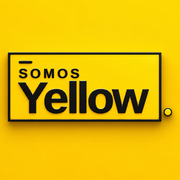
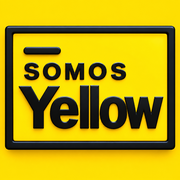
Icono de la app: nuevo logotipo Somos Yellow a sangre
Sustituye el icono, el favicon y el logo de la cabecera por la versión cuadrada, que ocupa
todo el icono y se lee mejor en tamaño pequeño. Service worker v18.

Claude-Session: https://claude.ai/code/session_014bE1bAw6156sv1W7yaK5pr

diff --git a/site/index.html b/site/index.html
@@ -8,16 +8,16 @@
   <meta name="apple-mobile-web-app-title" content="Yellow Control">
   <title>Yellow Control</title>
   <link rel="manifest" href="/manifest.webmanifest">
-  <link rel="apple-touch-icon" href="/yellow-app-icon-180.png?v=2">
-  <link rel="icon" type="image/png" sizes="32x32" href="/favicon-32.png?v=2">
-  <link rel="icon" type="image/png" sizes="180x180" href="/yellow-app-icon-180.png?v=2">
+  <link rel="apple-touch-icon" href="/yellow-app-icon-180.png?v=3">
+  <link rel="icon" type="image/png" sizes="32x32" href="/favicon-32.png?v=3">
+  <link rel="icon" type="image/png" sizes="180x180" href="/yellow-app-icon-180.png?v=3">
   <script>try{var t=localStorage.getItem("yc-theme");if(t==="light"||t==="dark")document.documentElement.dataset.theme=t}catch(e){}</script>
   <link rel="stylesheet" href="/control.css">
 </head>
 <body>
   <div id="loginGate" class="gate hidden">
     <div class="login-card">
-      <div class="brand-lockup"><img src="/yellow-app-icon-180.png?v=2" alt="Somos Yellow"><div><strong>YELLOW CONTROL</strong><span>Yellow Media</span></div></div>
+      <div class="brand-lockup"><img src="/yellow-app-icon-180.png?v=3" alt="Somos Yellow"><div><strong>YELLOW CONTROL</strong><span>Yellow Media</span></div></div>
       <h1>Acceso interno</h1>
       <p id="loginInfo" class="muted">Inicia sesión con tu usuario de Yellow Media.</p>
       <form id="loginForm" class="stack">
@@ -37,7 +37,7 @@
   </div>
 
   <header class="topbar">
-    <a class="brand-lockup" href="#dashboard"><img src="/yellow-app-icon-180.png?v=2" alt="Somos Yellow"><div><strong>YELLOW CONTROL</strong><span>Yellow Media</span></div></a>
+    <a class="brand-lockup" href="#dashboard"><img src="/yellow-app-icon-180.png?v=3" alt="Somos Yellow"><div><strong>YELLOW CONTROL</strong><span>Yellow Media</span></div></a>
     <div class="top-actions"><button type="button" id="themeToggle" class="ghost theme-toggle" aria-label="Cambiar a modo claro" title="Modo claro / oscuro"><svg class="ic-sun" viewBox="0 0 24 24" fill="none" stroke="currentColor" stroke-width="1.8" stroke-linecap="round"><circle cx="12" cy="12" r="4"/><path d="M12 2v2M12 20v2M4.9 4.9l1.4 1.4M17.7 17.7l1.4 1.4M2 12h2M20 12h2M4.9 19.1l1.4-1.4M17.7 6.3l1.4-1.4"/></svg><svg class="ic-moon" viewBox="0 0 24 24" fill="none" stroke="currentColor" stroke-width="1.8" stroke-linecap="round" stroke-linejoin="round"><path d="M21 12.8A9 9 0 1 1 11.2 3a7 7 0 0 0 9.8 9.8z"/></svg></button>
     <div class="account"><span id="accountName">—</span><button id="logoutBtn" class="ghost">Salir</button></div></div>
   </header>

diff --git a/site/sw.js b/site/sw.js
@@ -1,1 +1,1 @@
-const CACHE="yellow-control-v17";const STATIC=["/","/control.css","/app.js","/manifest.webmanifest","/yellow-app-icon-180.png?v=2"];self.addEventListener("install",e=>{self.skipWaiting();e.waitUntil(caches.open(CACHE).then(c=>c.addAll(STATIC)))});self.addEventListener("activate",e=>e.waitUntil(caches.keys().then(keys=>Promise.all(keys.filter(k=>k!==CACHE).map(k=>caches.delete(k)))).then(()=>self.clients.claim())));self.addEventListener("fetch",e=>{const u=new URL(e.request.url);if(u.pathname.startsWith("/api/"))return;e.respondWith(fetch(e.request).then(r=>{const c=r.clone();caches.open(CACHE).then(x=>x.put(e.request,c));return r}).catch(()=>caches.match(e.request)))})
+const CACHE="yellow-control-v18";const STATIC=["/","/control.css","/app.js","/manifest.webmanifest","/yellow-app-icon-180.png?v=3"];self.addEventListener("install",e=>{self.skipWaiting();e.waitUntil(caches.open(CACHE).then(c=>c.addAll(STATIC)))});self.addEventListener("activate",e=>e.waitUntil(caches.keys().then(keys=>Promise.all(keys.filter(k=>k!==CACHE).map(k=>caches.delete(k)))).then(()=>self.clients.claim())));self.addEventListener("fetch",e=>{const u=new URL(e.request.url);if(u.pathname.startsWith("/api/"))return;e.respondWith(fetch(e.request).then(r=>{const c=r.clone();caches.open(CACHE).then(x=>x.put(e.request,c));return r}).catch(()=>caches.match(e.request)))})
